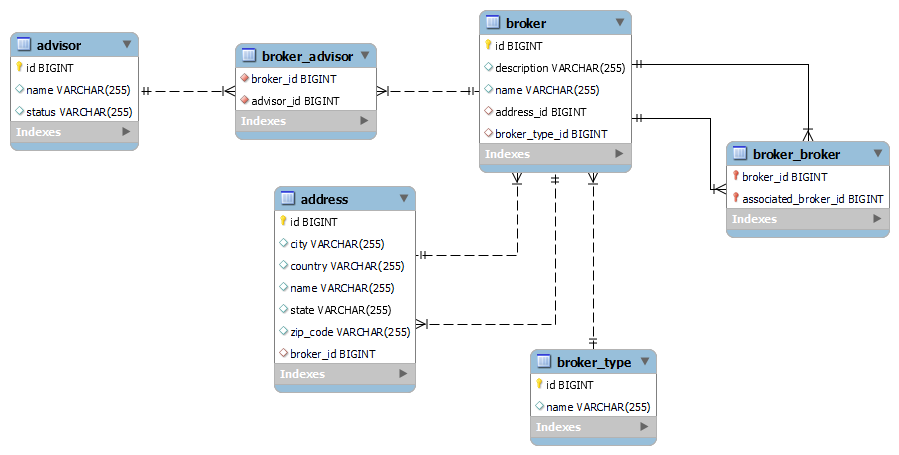
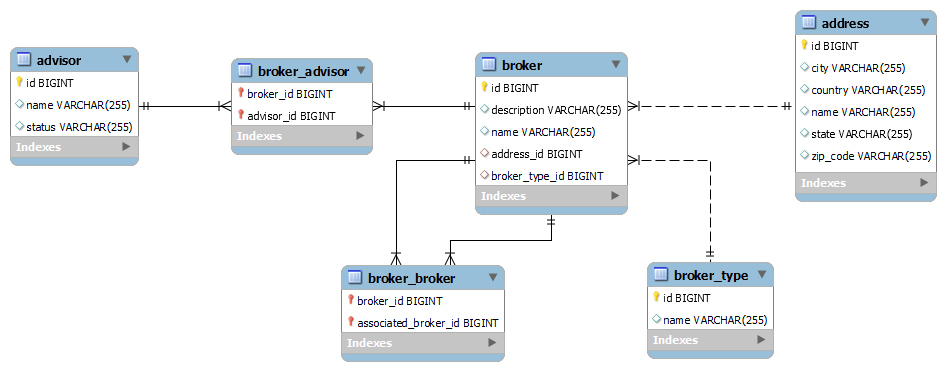
Updating Broker and Address relationship from bidirectional to unidirectional

diff --git a/src/main/java/com/erebelo/springmysqldemo/domain/entity/AddressEntity.java b/src/main/java/com/erebelo/springmysqldemo/domain/entity/AddressEntity.java
@@ -1,11 +1,9 @@
 package com.erebelo.springmysqldemo.domain.entity;
 
 import jakarta.persistence.Entity;
-import jakarta.persistence.FetchType;
 import jakarta.persistence.GeneratedValue;
 import jakarta.persistence.GenerationType;
 import jakarta.persistence.Id;
-import jakarta.persistence.OneToOne;
 import lombok.AllArgsConstructor;
 import lombok.Builder;
 import lombok.Data;
@@ -27,12 +25,5 @@ public class AddressEntity {
     private String state;
     private String country;
     private String zipCode;
-
-    /*
-     Since AddressEntity is not the owner of the @OneToOne relationship, there is no need to specify the association below unless it is
-     bidirectional, as is this case
-     */
-    @OneToOne(mappedBy = "address", fetch = FetchType.LAZY)
-    private BrokerEntity broker;
 
 }

diff --git a/README.md b/README.md
@@ -26,4 +26,4 @@ REST API project developed in Java using Spring Boot 3 and MySQL database.
 [Entity Relationship Diagram](https://github.com/erebelo/spring-mysql-demo/tree/main/db-setup/Entity%20Relationship%20Diagram.png)
 
 ## Script
-[MySQL POC Script](https://github.com/erebelo/spring-mysql-demo/tree/main/db-setup/mysql_poc-script.sql)
+[MySQL Demo Script](https://github.com/erebelo/spring-mysql-demo/tree/main/db-setup/mysql_demo_script.sql)

diff --git a/db-setup/README.md b/db-setup/README.md
@@ -97,7 +97,9 @@
 
 5. `$ SHOW DATABASES;`
 
-6. `$ EXIT;`
+6. `$ SELECT user FROM mysql.user;`
+
+7. `$ EXIT;`
 
 # DBeaver Setup
 
